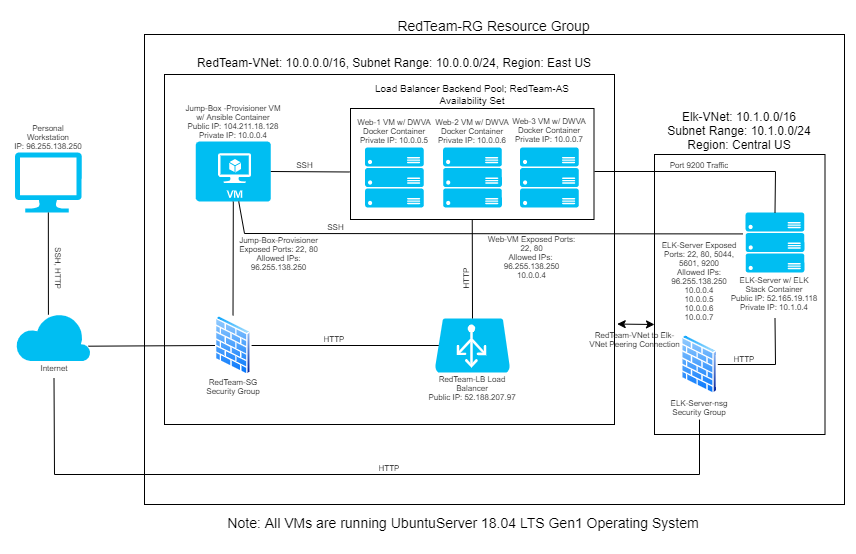
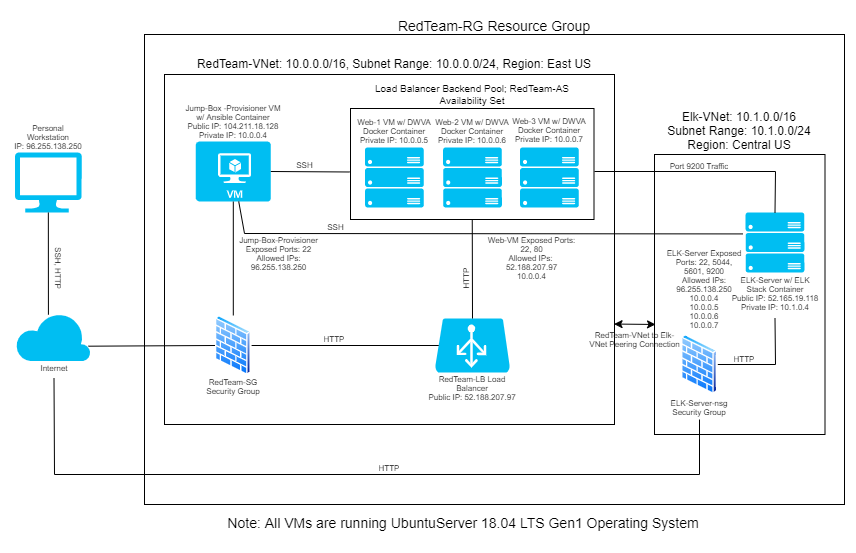
Commit 3
Complete Readme
Updated Network Diagram

diff --git a/README.md b/README.md
@@ -2,11 +2,11 @@
 
 The files in this repository were used to configure the network depicted below.
 
-![TODO: Update the path with the name of your diagram](Images/diagram_filename.png)
+![Network Diagram](https://github.com/clementyang24/ELK-Stack-Deployment/blob/a5c8dfd26deb1bcfcf1e7354970d095992db8883/Images/Project%201%20Week%2013%20Diagram.png)
 
-These files have been tested and used to generate a live ELK deployment on Azure. They can be used to either recreate the entire deployment pictured above. Alternatively, select portions of the _____ file may be used to install only certain pieces of it, such as Filebeat.
+These files have been tested and used to generate a live ELK deployment on Azure. They can be used to either recreate the entire deployment pictured above. Alternatively, select portions of the playbook file may be used to install only certain pieces of it, such as Filebeat.
 
-  - _TODO: Enter the playbook file._
+- [Ansible Filebeat Playbook](https://github.com/clementyang24/ELK-Stack-Deployment/blob/a5c8dfd26deb1bcfcf1e7354970d095992db8883/Ansible/filebeat-playbook.yml)
 
 This document contains the following details:
 - Description of the Topologu
@@ -21,76 +21,90 @@ This document contains the following details:
 
 The main purpose of this network is to expose a load-balanced and monitored instance of DVWA, the D*mn Vulnerable Web Application.
 
-Load balancing ensures that the application will be highly _____, in addition to restricting _____ to the network.
-- _TODO: What aspect of security do load balancers protect? What is the advantage of a jump box?_
+Load balancing ensures that the application will be highly available, in addition to restricting access to the network.
+- Load balancers distribute traffic between servers, ensuring that no one server is being overwhelmed with requests.
+- The purpose of the Jump Box Provisioner is to both act as a gateway, as well as holding the Ansible container with which we were able to deploy ansible playbooks with, specifically installing the DVWA containers, metricbeat, and filebeat on each DVWA VM, as well as the ELK Stack container on the ELK-Server VM.
 
-Integrating an ELK server allows users to easily monitor the vulnerable VMs for changes to the _____ and system _____.
-- _TODO: What does Filebeat watch for?_
-- _TODO: What does Metricbeat record?_
+Integrating an ELK server allows users to easily monitor the vulnerable VMs for changes to the data and system logs.
+- Filebeat monitors log files, collects log events, and then passes them on to elasticsearch for indexing purposes.
+- Metricbeat collects data and metrics from the system and services running on one's server, and sends them to elasticsearch.
 
-The configuration details of each machine may be found below.
-_Note: Use the [Markdown Table Generator](http://www.tablesgenerator.com/markdown_tables) to add/remove values from the table_.
+The configuration details of each machine may be found below:
 
-| Name     | Function | IP Address | Operating System |
-|----------|----------|------------|------------------|
-| Jump Box | Gateway  | 10.0.0.1   | Linux            |
-| TODO     |          |            |                  |
-| TODO     |          |            |                  |
-| TODO     |          |            |                  |
+| Name                 | Function                | IP Address | Operating System            |
+|----------------------|-------------------------|------------|-----------------------------|
+| Jump-Box-Provisioner | Gateway and Provisioner | 10.0.0.4   | UbuntuServer 18.04 LTS Gen1 |
+| ELK-Server           | ELK Stack Container     | 10.1.0.4   | UbuntuServer 18.04 LTS Gen1 |
+| Web-1                | DVWA Container          | 10.0.0.5   | UbuntuServer 18.04 LTS Gen1 |
+| Web-2                | DVWA Container          | 10.0.0.6   | UbuntuServer 18.04 LTS Gen1 |
+| Web-3                | DVWA Container          | 10.0.0.7   | UbuntuServer 18.04 LTS Gen1 |
 
 ### Access Policies
 
 The machines on the internal network are not exposed to the public Internet. 
 
-Only the _____ machine can accept connections from the Internet. Access to this machine is only allowed from the following IP addresses:
-- _TODO: Add whitelisted IP addresses_
+Only the Jump-Box-Provisioner machine can accept connections from the Internet. Access to this machine is only allowed from the following IP addresses:
+- 96.255.138.250 (home workstation)
 
-Machines within the network can only be accessed by _____.
-- _TODO: Which machine did you allow to access your ELK VM? What was its IP address?_
+Machines within the network can only be accessed by the Jump Box Provisioner.
+- The Elk-VM is accessible via SSH from the Jump Box Provisioner, and also from the user's home workstation in order to access the Kibana application via Port 5601.
 
 A summary of the access policies in place can be found in the table below.
 
-| Name     | Publicly Accessible | Allowed IP Addresses |
-|----------|---------------------|----------------------|
-| Jump Box | Yes/No              | 10.0.0.1 10.0.0.2    |
-|          |                     |                      |
-|          |                     |                      |
+| Name                 | Publicly Accessible? | Allowed IP Addresses                                   |
+|----------------------|----------------------|--------------------------------------------------------|
+| Jump-Box-Provisioner | Yes                  | 96.255.138.250                                         |
+| Elk-Server           | Yes                  | 96.255.138.250, 10.0.0.4, 10.0.0.5, 10.0.0.6, 10.0.0.7 |
+| Web-1                | No                   | 52.188.207.97, 10.0.0.4                                |
+| Web-2                | No                   | 52.188.207.97, 10.0.0.4                                |
+| Web-3                | No                   | 52.188.207.97, 10.0.0.4                                |
 
 ### Elk Configuration
 
-Ansible was used to automate configuration of the ELK machine. No configuration was performed manually, which is advantageous because...
-- _TODO: What is the main advantage of automating configuration with Ansible?_
+Ansible was used to automate configuration of the ELK machine. No configuration was performed manually, which is advantageous because automating configuration allows more flexibility for future updates, and enables easy reproduction for anyone else who would like to implement the same tasks.
 
 The playbook implements the following tasks:
-- _TODO: In 3-5 bullets, explain the steps of the ELK installation play. E.g., install Docker; download image; etc._
-- ...
-- ...
+- Install docker.io
+- Install python3-pip
+- Install docker module
+- Increase the amount of virtual memory and uses that additional memory
+- Download and launch the docker elk container
+- Uses systemd to enable docker service on boot, so that docker does not require restart every time the machine restarts.
 
 The following screenshot displays the result of running `docker ps` after successfully configuring the ELK instance.
 
-![TODO: Update the path with the name of your screenshot of docker ps output](Images/docker_ps_output.png)
+![Docker PS image](https://github.com/clementyang24/ELK-Stack-Deployment/blob/a5c8dfd26deb1bcfcf1e7354970d095992db8883/Images/Elk_Container.PNG)
 
 ### Target Machines & Beats
 This ELK server is configured to monitor the following machines:
-- _TODO: List the IP addresses of the machines you are monitoring_
+- 10.0.0.5 Web-1
+- 10.0.0.6 Web-2
+- 10.0.0.7 Web-3
 
 We have installed the following Beats on these machines:
-- _TODO: Specify which Beats you successfully installed_
+- Filebeat
+- Metricbeat
 
 These Beats allow us to collect the following information from each machine:
-- _TODO: In 1-2 sentences, explain what kind of data each beat collects, and provide 1 example of what you expect to see. E.g., `Winlogbeat` collects Windows logs, which we use to track user logon events, etc._
+- Filebeat allows us to collect system logs. For example, Windows event logs are collected by Filebeat and then shipped on to elasticsearch.
+- Metricbeat monitors and collects system metric information. One example of this is Metricbeat's Apache module, which periodically collects metrics from Apache HTTPD servers.
 
 ### Using the Playbook
 In order to use the playbook, you will need to have an Ansible control node already configured. Assuming you have such a control node provisioned: 
 
 SSH into the control node and follow the steps below:
-- Copy the _____ file to _____.
-- Update the _____ file to include...
-- Run the playbook, and navigate to ____ to check that the installation worked as expected.
+- Copy the playbook file to /etc/ansible/roles.
+- Update the playbook file to include the latest version of filebeat/metricbeat, and the hosts group you wish to install the beats to.
+- Run the playbook, and navigate your Kibana dashboard to check that the installation worked as expected.
 
-_TODO: Answer the following questions to fill in the blanks:_
-- _Which file is the playbook? Where do you copy it?_
+Answer the following questions to fill in the blanks:_
+- _Which file is the playbook? Where do you copy it?
+	- [Ansible Filebeat Playbook](https://github.com/clementyang24/ELK-Stack-Deployment/blob/a5c8dfd26deb1bcfcf1e7354970d095992db8883/Ansible/filebeat-playbook.yml)
+	- [Ansible Metricbeat Playbook](https://github.com/clementyang24/ELK-Stack-Deployment/blob/a5c8dfd26deb1bcfcf1e7354970d095992db8883/Ansible/metricbeat-playbook.yml)
+	- Copy these to your /etc/ansible/roles directory within your Ansible container.
+
 - _Which file do you update to make Ansible run the playbook on a specific machine? How do I specify which machine to install the ELK server on versus which to install Filebeat on?_
+	- Update your Ansible hosts file to specify different groups of machines which you would like to run the playbook on. For example, by default there is a webservers group, which should contain the IPs of your DVWA Web-VM containers which you want to install Filebeat and Metricbeat on. Additionally, we also created an [elk] group for the ELK-server, where we used to ELK-server IP in order to specify that we wanted to use the install-elk playbook on the ELK-Server VM.
 - _Which URL do you navigate to in order to check that the ELK server is running?
-
-_As a **Bonus**, provide the specific commands the user will need to run to download the playbook, update the files, etc._
+	-[Access Kibana App](http://[your.ELK-VM.External.IP]:5601/app/kibana)
+	
